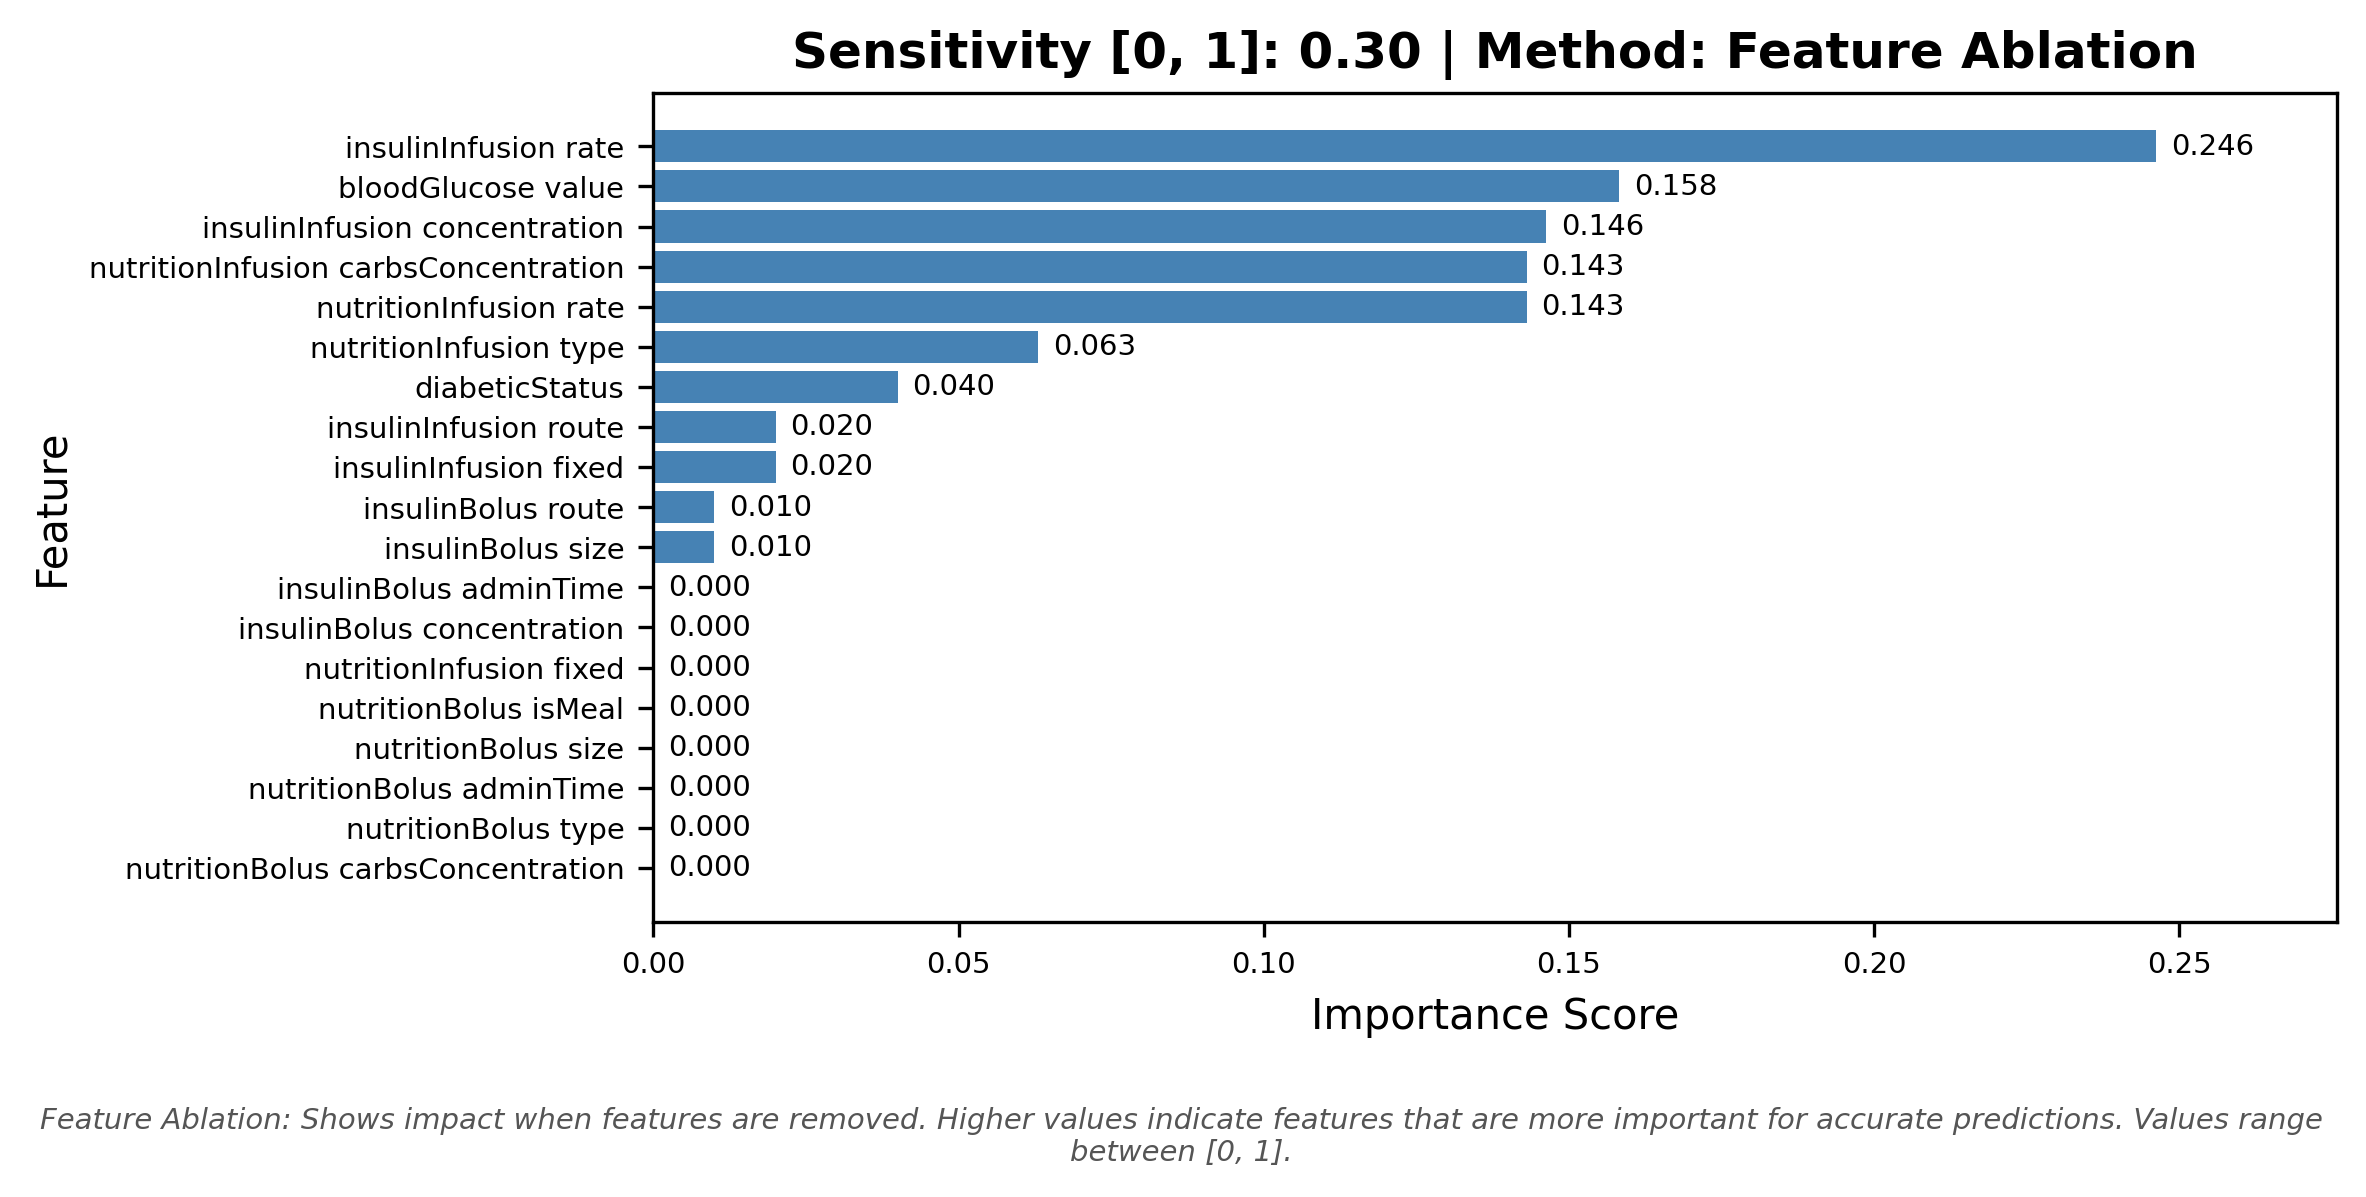
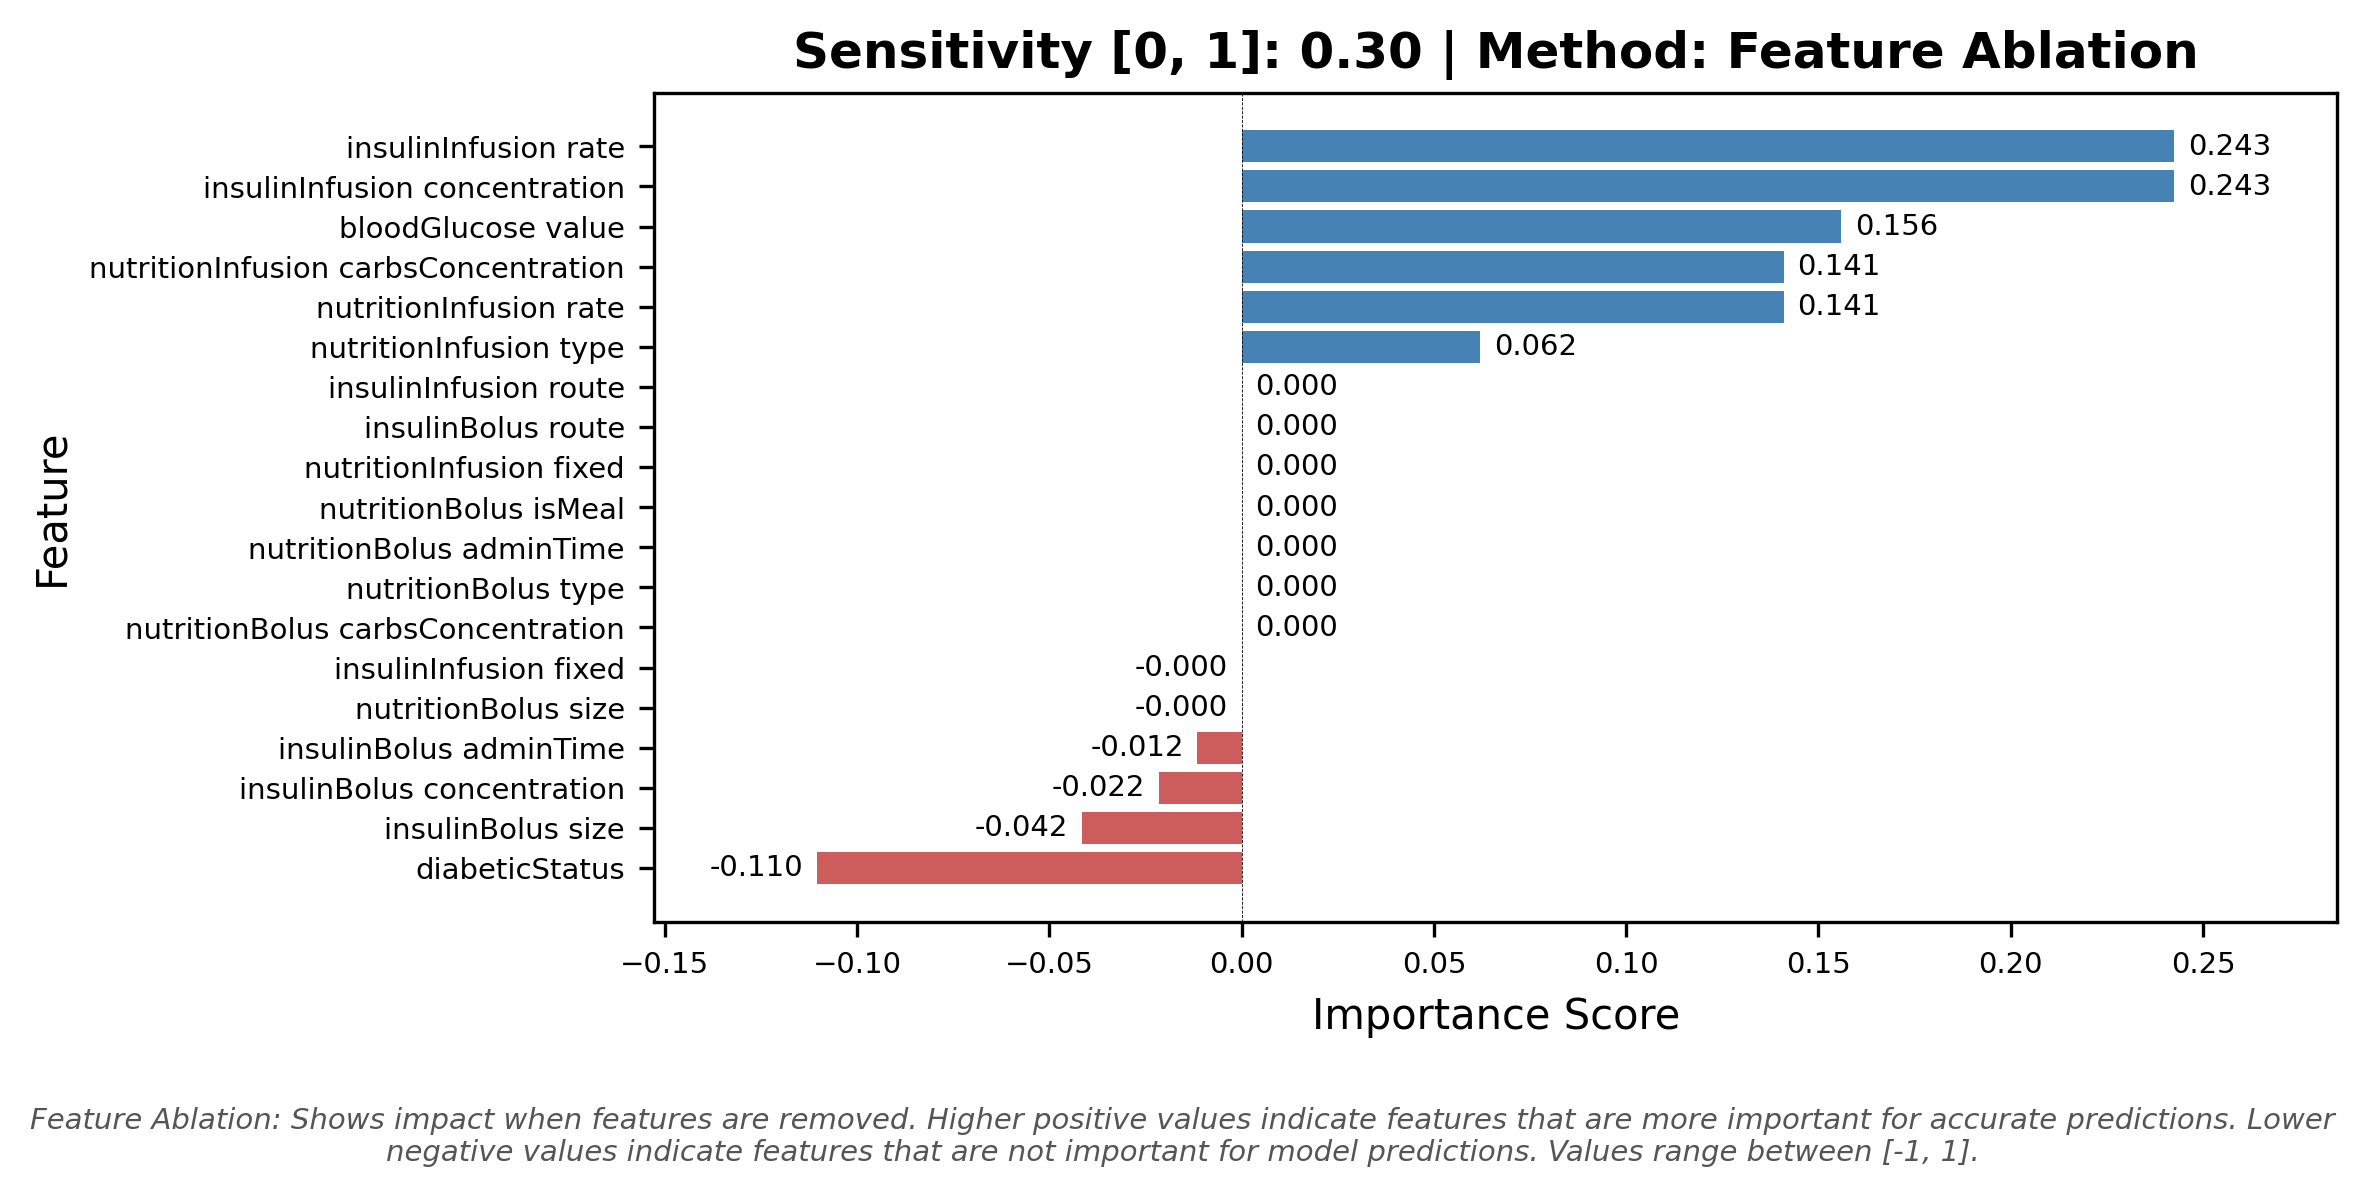
keep also negative importance

diff --git a/src/explainer_visualization.py b/src/explainer_visualization.py
@@ -34,19 +34,24 @@ def plot_importances(
 
     plt.figure(figsize=figsize)
 
-    bars = plt.barh(features, importances, color="steelblue")
+    colors = [
+        "steelblue" if v > 0 else "indianred" if v < 0 else "gray" for v in importances
+    ]
+    bars = plt.barh(features, importances, color=colors)
+
     plt.gca().invert_yaxis()
 
     plt.title(title, fontsize=12, fontweight="bold")
     plt.xlabel(xlabel, fontsize=10)
     plt.ylabel(ylabel, fontsize=10)
     plt.tick_params(axis="both", which="major", labelsize=7)
+    plt.axvline(0, color="black", linewidth=0.2, linestyle="--")
 
     xmin = min(importances)
     xmax = max(importances)
     x_range = xmax - xmin if xmax != xmin else 1
 
-    xlim_min = 0
+    xlim_min = xmin - (x_range * 0.12)
     xlim_max = xmax + (x_range * 0.12)
 
     plt.xlim(xlim_min, xlim_max)
@@ -129,14 +134,16 @@ def visualize_feature_importance(
     if method == "feature_ablation":
         explanation_text = (
             "Feature Ablation: Shows impact when features are removed. "
-            "Higher values indicate features that are more important for accurate predictions. "
-            "Values range between [0, 1]."
+            "Higher positive values indicate features that are more important for accurate predictions. "
+            "Lower negative values indicate features that are not important for model predictions. "
+            "Values range between [-1, 1]."
         )
     if method == "feature_perturbation":
         explanation_text = (
             "Feature Perturbation: Shows impact when features are modified. "
-            "Higher values indicate features where changes significantly affect predictions. "
-            "Values range between [0, 1]."
+            "Higher positive values indicate features that are more important for accurate predictions. "
+            "Lower negative values indicate features that are not important for model predictions. "
+            "Values range between [-1, 1]."
         )
 
     # Create title

diff --git a/src/explainer.py b/src/explainer.py
@@ -369,20 +369,28 @@ def analyze_feature_importance(
         # Compute MAE after transformation
         transformed_mae = compute_mae(patients_data=transformed_data, star_api=star_api)
 
-        # Feature importance = INCREASE in MAE (higher MAE = worse predictions)
-        mae_increase = max(0, transformed_mae - baseline_mae)
-        feature_importance[attr_name] = mae_increase
+        # Feature importance
+        # Positive = INCREASE in MAE (higher MAE = worse predictions, feature is good for the model)
+        # Negative = DECREASE in MAE (lower MAE = better predictions, feature is not good for the model)
+        mae_diff = transformed_mae - baseline_mae
+        feature_importance[attr_name] = mae_diff
 
     # Sort by importance
     feature_importance = dict(
         sorted(feature_importance.items(), key=lambda x: x[1], reverse=True)
     )
 
-    # Nornalize values to 0-1
-    total_importance = sum(feature_importance.values())
-    feature_importance = {
-        key: (value / total_importance) for key, value in feature_importance.items()
-    }
+    # Normalize by sum of absolute values
+    total_abs_importance = sum(abs(value) for value in feature_importance.values())
+
+    if total_abs_importance > 0:
+        feature_importance = {
+            key: (value / total_abs_importance)
+            for key, value in feature_importance.items()
+        }
+    else:
+        # All differences are zero
+        feature_importance = {key: 0.0 for key in feature_importance.keys()}
 
     return feature_importance
 

diff --git a/README.md b/README.md
@@ -401,14 +401,15 @@ The fairness analysis produces:
 ### Explainability Analysis Output
 For Feature Ablation (sensitivity < 0.5):
 - Shows the impact when features are removed from the model input.
-- Higher importance scores indicate features that are more critical for accurate predictions.
-- Values are normalized to range [0, 1].
+- Higher positive importance scores indicate features that are more critical for accurate predictions.
+- Negative importance scores indicate features that are harmful for the model predictions.
 - Features with 0.0 importance had no measurable impact when removed.
 
 For Feature Perturbation (sensitivity ≥ 0.5):
 - Shows the impact when feature values are modified.
-- Higher importance scores indicate features where changes significantly affect predictions.
-- Values are normalized to range [0, 1].
+- Higher positive importance scores indicate features where changes significantly affect predictions. These features are more critical for accurate predictions.
+- Negative importance scores indicate features that are harmful for the model predictions.
+- Values are normalized to range [-1, 1].
 - The horizontal bar plot ranks features by their sensitivity to perturbation.
 
 **Key Features Analyzed:**
